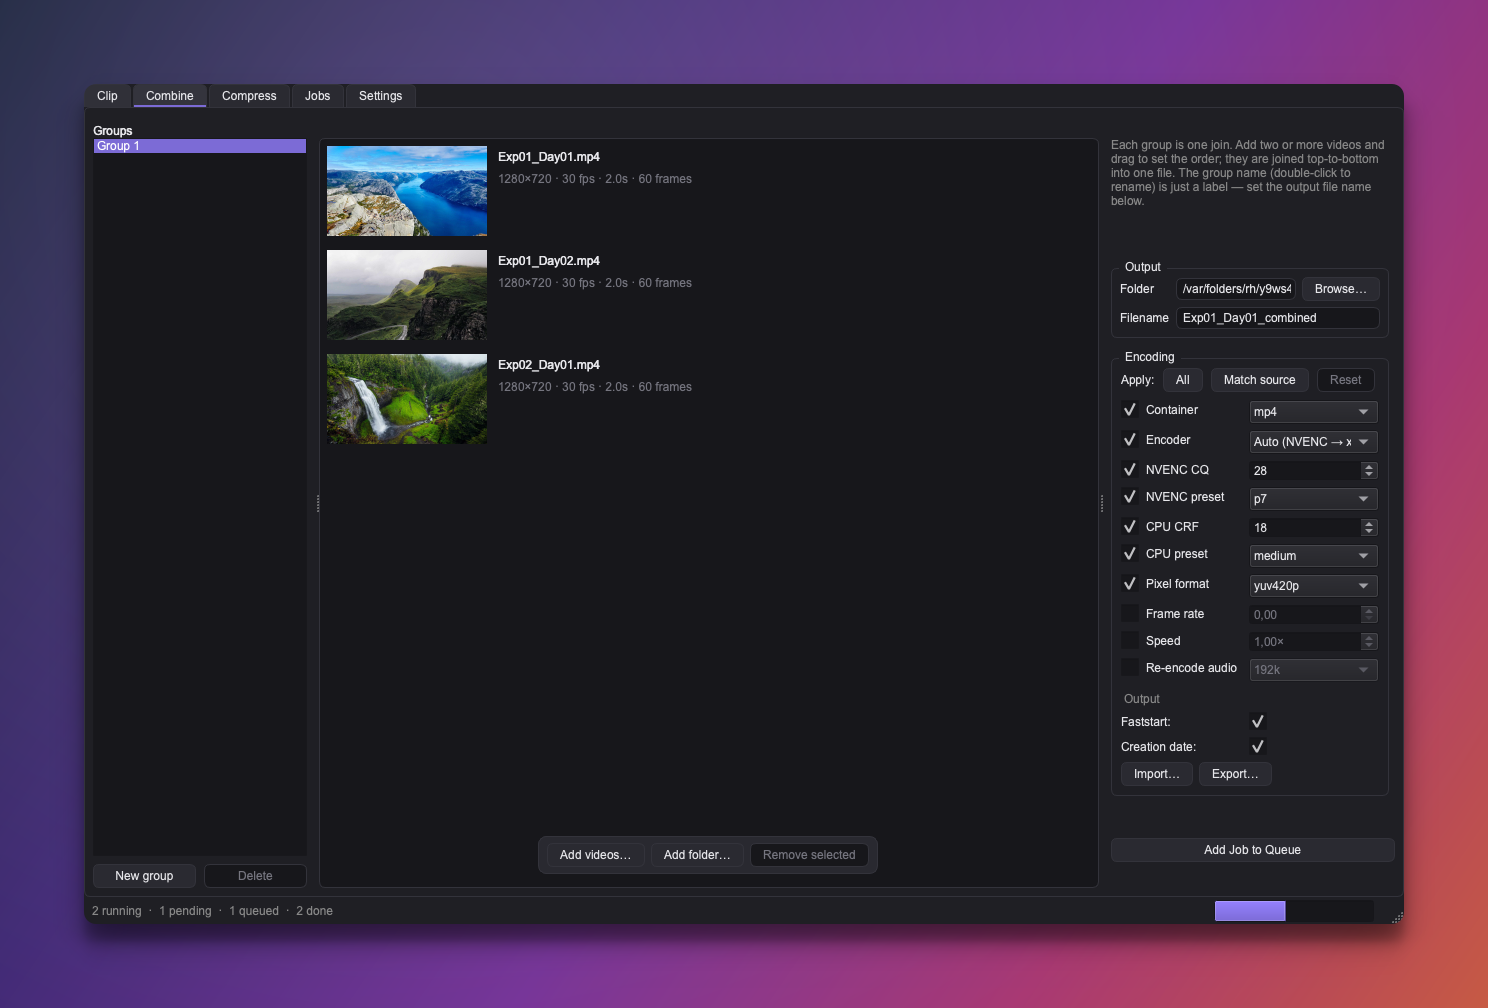
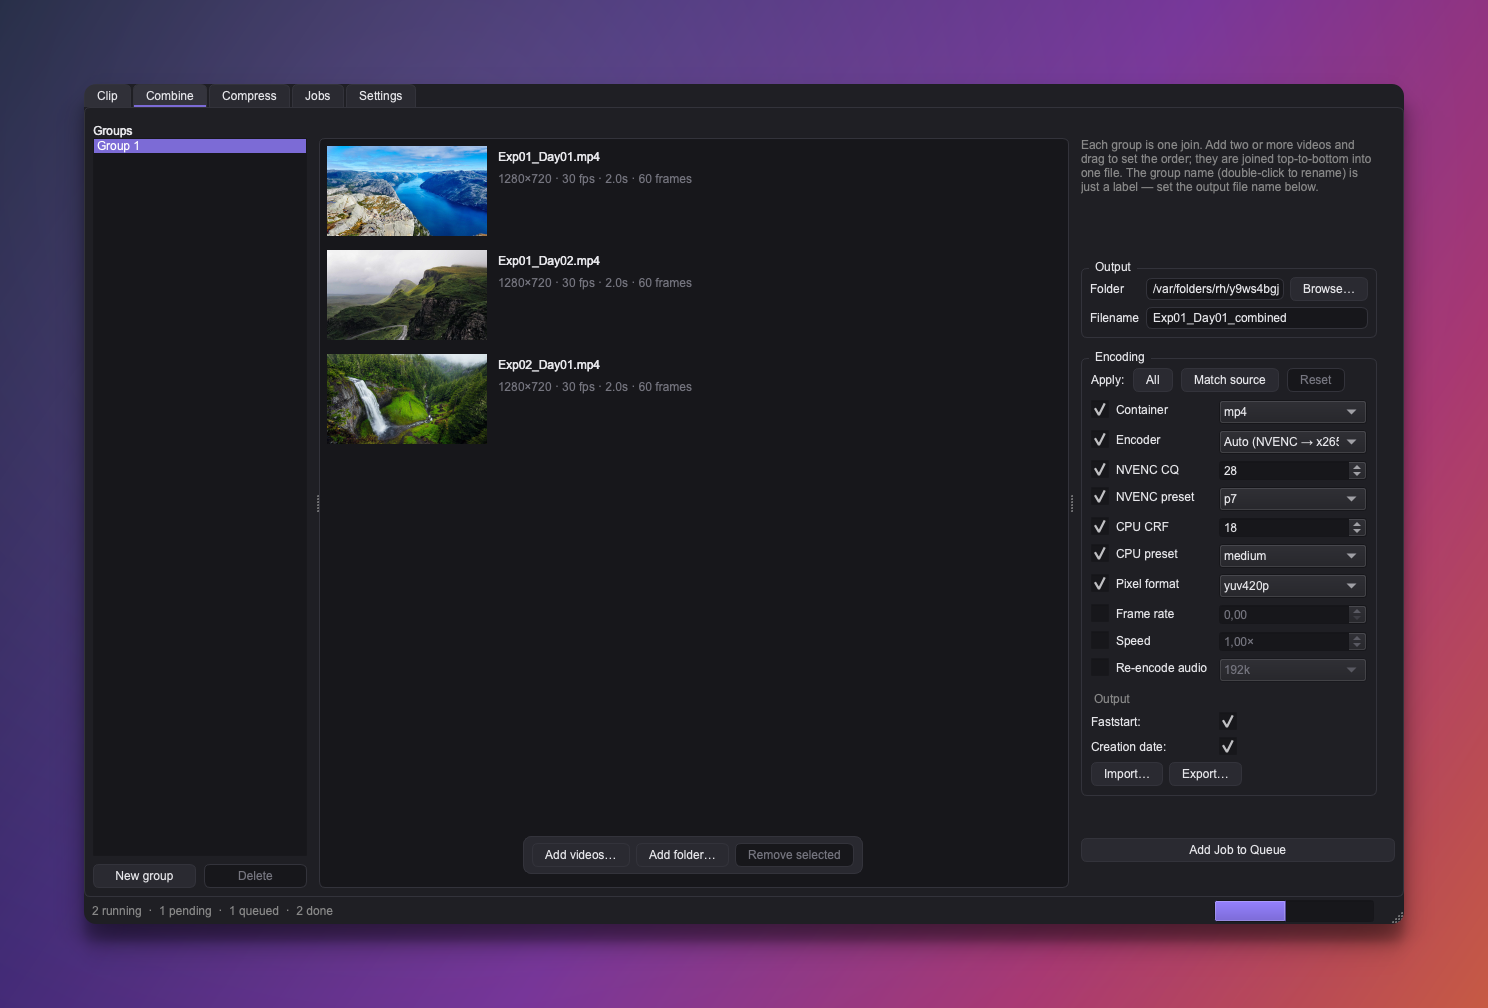
Maximise on small screens; consistent right-panel width across tabs
- Default the window to 1440×900: open windowed at that size on a display
  with room, or maximised to fill a smaller screen that can't fit it. Apply
  it at show time (show_fitting) so the size sticks on first show.
- Reserve enough width for the Compress/Combine encoding panels (controls +
  scrollbar gutter), mirroring the Clip editor — so they no longer scroll
  horizontally and all three right panels open at the same width.

diff --git a/src/croppy/gui/main_window.py b/src/croppy/gui/main_window.py
@@ -57,10 +57,6 @@ class MainWindow(QMainWindow):
         # Match the queue's worker count to the persisted toggle state.
         self._apply_parallel(self.jobs_panel.parallel_enabled())
 
-        # Size the window only after the central widget exists, so the resize
-        # sticks on first show rather than falling back to the layout's size.
-        self._open_at_a_fitting_size()
-
     # --- public API ---------------------------------------------------------
 
     def open_path(self, path: Path) -> None:
@@ -86,26 +82,31 @@ class MainWindow(QMainWindow):
 
     # --- internals ----------------------------------------------------------
 
-    def _open_at_a_fitting_size(self) -> None:
-        """Open at a comfortable size, but never larger than the screen.
+    def show_fitting(self) -> None:
+        """Show the window, sized to the display.
 
-        ``availableGeometry`` already excludes the menu bar and dock, so on a
-        display with room we open at the full 1280×800 default (rather than
-        smaller just because the reduced minimum allows it); on a tighter display
-        we fill what's available. The window is then centred.
+        On a display with room for the 1440×900 default, open *windowed* at that
+        size, centred. On a smaller screen (a laptop that can't fit it), open
+        *maximised* to fill the available area — restoring to a fitted size when
+        un-maximised. ``availableGeometry`` already excludes the menu bar / dock.
         """
-        preferred_w, preferred_h = 1280, 800
+        default_w, default_h = 1440, 900
         screen = self.screen() or QApplication.primaryScreen()
         if screen is None:
-            self.resize(preferred_w, preferred_h)
+            self.resize(default_w, default_h)
+            self.show()
             return
         available = screen.availableGeometry()
-        width = min(preferred_w, available.width())
-        height = min(preferred_h, available.height())
-        self.resize(width, height)
+        fits = available.width() >= default_w and available.height() >= default_h
+        # This is the windowed size (and the restore size when maximised).
+        self.resize(min(default_w, available.width()), min(default_h, available.height()))
         frame = self.frameGeometry()
         frame.moveCenter(available.center())
         self.move(frame.topLeft())
+        if fits:
+            self.show()
+        else:
+            self.showMaximized()
 
     def _on_parallel_toggled(self, enabled: bool) -> None:
         save_parallel_enabled(enabled)

diff --git a/src/croppy/gui/compress_tab.py b/src/croppy/gui/compress_tab.py
@@ -147,6 +147,11 @@ class CompressTab(QWidget):
         self.queued_flash = StatusFlash()
         outer.addWidget(self.queued_flash)
 
+        # Reserve enough width for the controls + scrollbar gutter so the panel
+        # never needs to scroll horizontally (mirroring the Clip editor).
+        needed = controls.minimumSizeHint().width() + gutter + 2 * PANEL_MARGIN
+        side.setMinimumWidth(max(280, needed))
+
         splitter.addWidget(side)
         splitter.setStretchFactor(0, 1)
         splitter.setStretchFactor(1, 0)

diff --git a/src/croppy/gui/combine_tab.py b/src/croppy/gui/combine_tab.py
@@ -171,6 +171,11 @@ class CombineTab(QWidget):
         self.queued_flash = StatusFlash()
         outer.addWidget(self.queued_flash)
 
+        # Reserve enough width for the controls + scrollbar gutter so the panel
+        # never needs to scroll horizontally (mirroring the Clip editor).
+        needed = controls.minimumSizeHint().width() + gutter + 2 * PANEL_MARGIN
+        side.setMinimumWidth(max(280, needed))
+
         splitter.addWidget(groups_panel)
         splitter.addWidget(self.stack)
         splitter.addWidget(side)

diff --git a/src/croppy/app.py b/src/croppy/app.py
@@ -43,7 +43,9 @@ def run(video: Path | None = None, log_level_override: str | None = None) -> int
     window = MainWindow()
     if video is not None:
         window.open_path(video)
-    window.show()
+    # Windowed at the default size on a roomy display; maximised to fill a
+    # smaller one that can't fit it.
+    window.show_fitting()
 
     # Check the release channel for a newer version (honours the Settings toggle).
     from croppy.gui.update_check import maybe_check_for_updates
